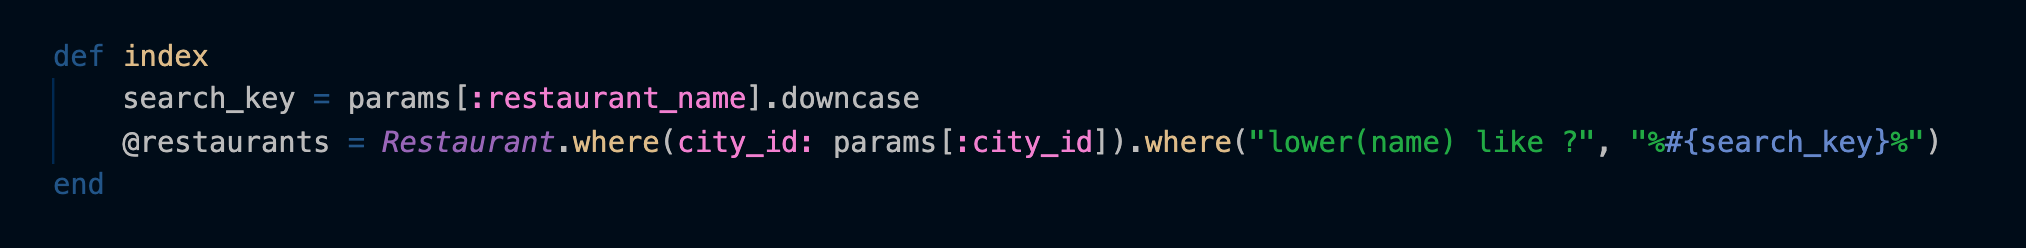
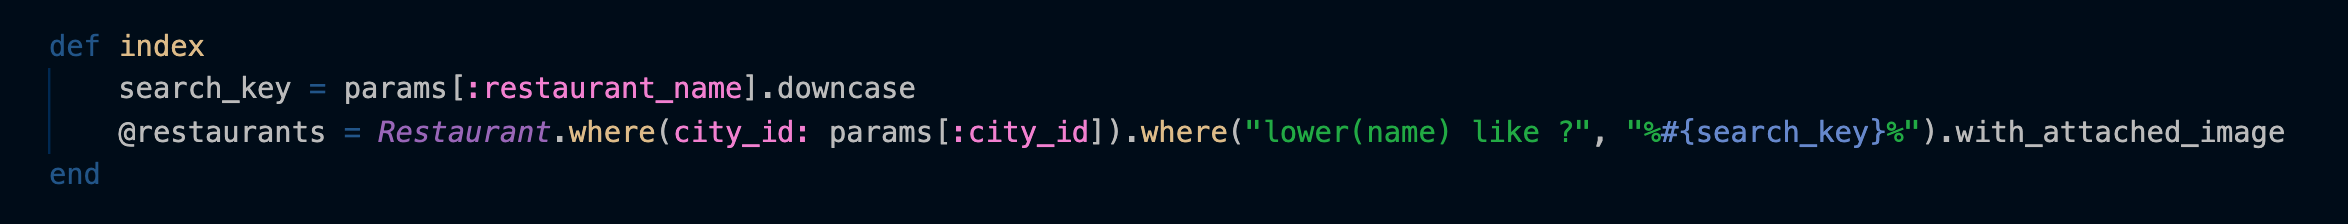
update screenshot to reflect change

diff --git a/app/controllers/api/restaurants_controller.rb b/app/controllers/api/restaurants_controller.rb
@@ -2,7 +2,9 @@ class Api::RestaurantsController < ApplicationController
 
     def index
         search_key = params[:restaurant_name].downcase
-        @restaurants = Restaurant.where(city_id: params[:city_id]).where("lower(name) like ?", "%#{search_key}%").with_attached_image
+        @restaurants = Restaurant.where(city_id: params[:city_id])
+            .where("lower(name) like ?", "%#{search_key}%")
+            .with_attached_image
     end
 
     def show
